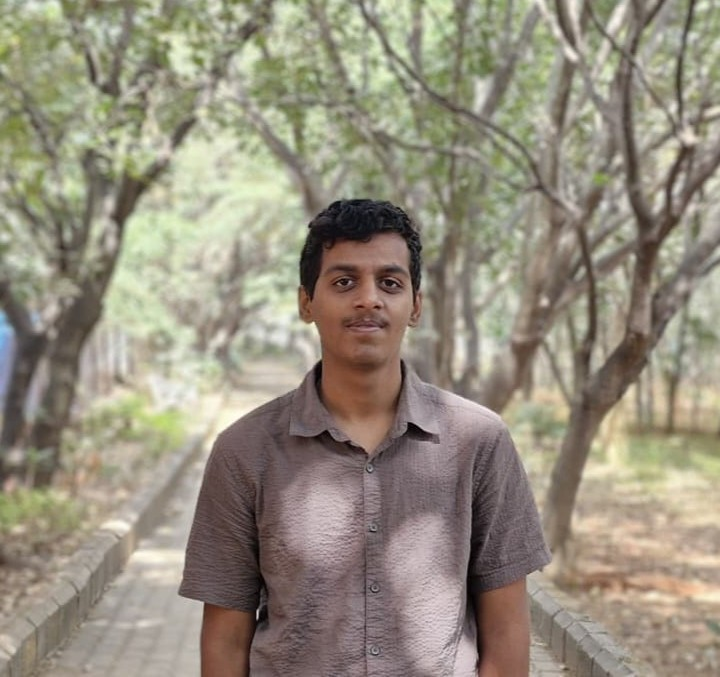
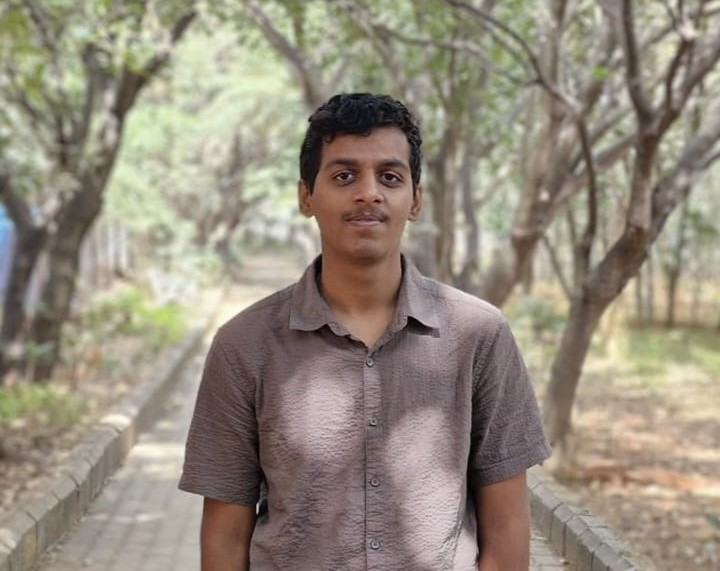
Updated Picture Dimensions

diff --git a/src/components/animatedabout.jsx b/src/components/animatedabout.jsx
@@ -23,7 +23,7 @@ export default function AnimatedAboutSection({ isDark }) {
           // 2. STYLING MAGIC HERE:
           // object-cover: Cuts off the sides to fill the box without stretching
           // object-top: Focuses the crop on the top of the image (your face) rather than the center (your chest/legs)
-          className="w-full h-full object-cover object-[50%_10%]" 
+          className="w-full h-full object-cover object-center" 
         />
       </motion.div>
 
